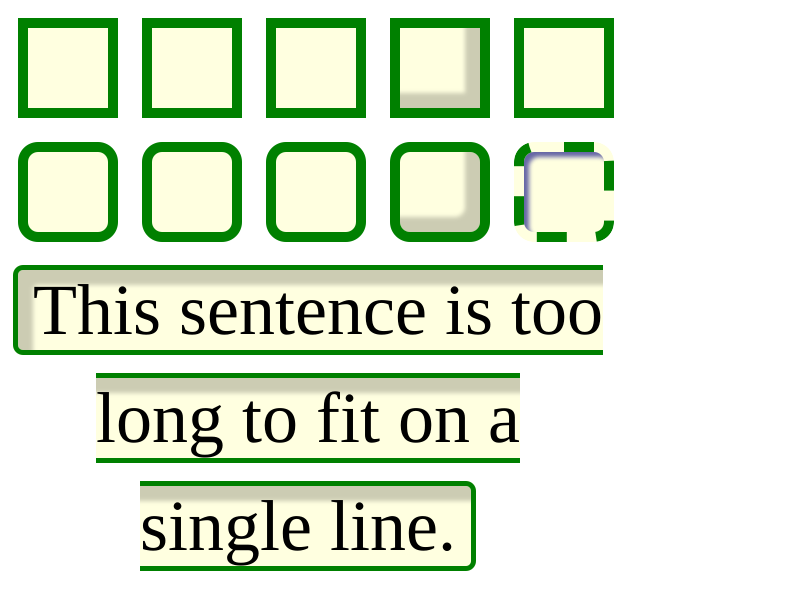
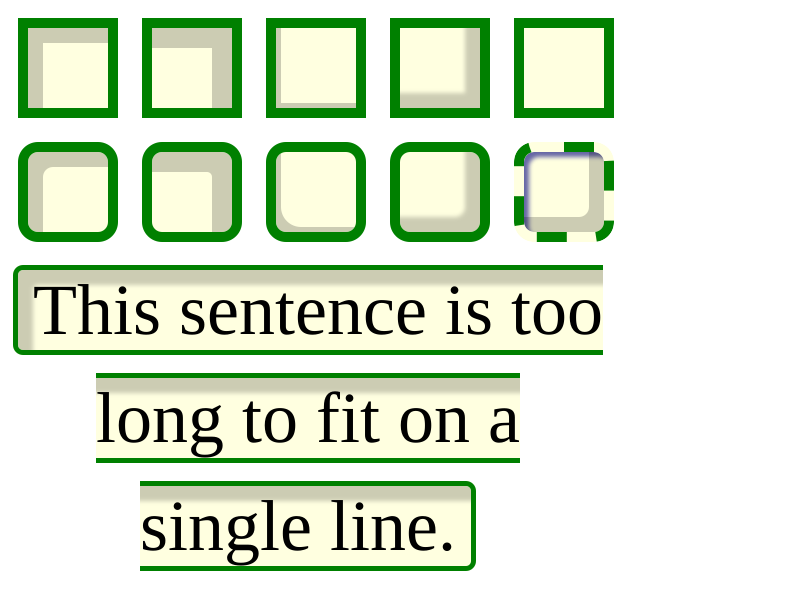
[cairo] Doesn't paint box-shadow with zero blur-radius https://bugs.webkit.org/show_bug.cgi?id=187244
Reviewed by Žan Doberšek.

Source/WebCore:

Cairo::ShadowState::isRequired() returned false if blur-radius is
zero.

No new tests (Covered by existing tests).

* platform/graphics/cairo/CairoOperations.cpp:
(WebCore::Cairo::ShadowState::isRequired const): Do not check blur
is zero.

LayoutTests:

* platform/gtk/fast/box-shadow/inset-expected.png: Updated.

git-svn-id: https://svn.webkit.org/repository/webkit/trunk@233495 268f45cc-cd09-0410-ab3c-d52691b4dbfc

diff --git a/Source/WebCore/platform/graphics/cairo/CairoOperations.cpp b/Source/WebCore/platform/graphics/cairo/CairoOperations.cpp
@@ -612,8 +612,7 @@ bool ShadowState::isVisible() const
 
 bool ShadowState::isRequired(PlatformContextCairo& platformContext) const
 {
-    // We can't avoid ShadowBlur if the shadow has blur.
-    if (color.isVisible() && blur)
+    if (color.isVisible())
         return true;
 
     // We can avoid ShadowBlur and optimize, since we're not drawing on a
